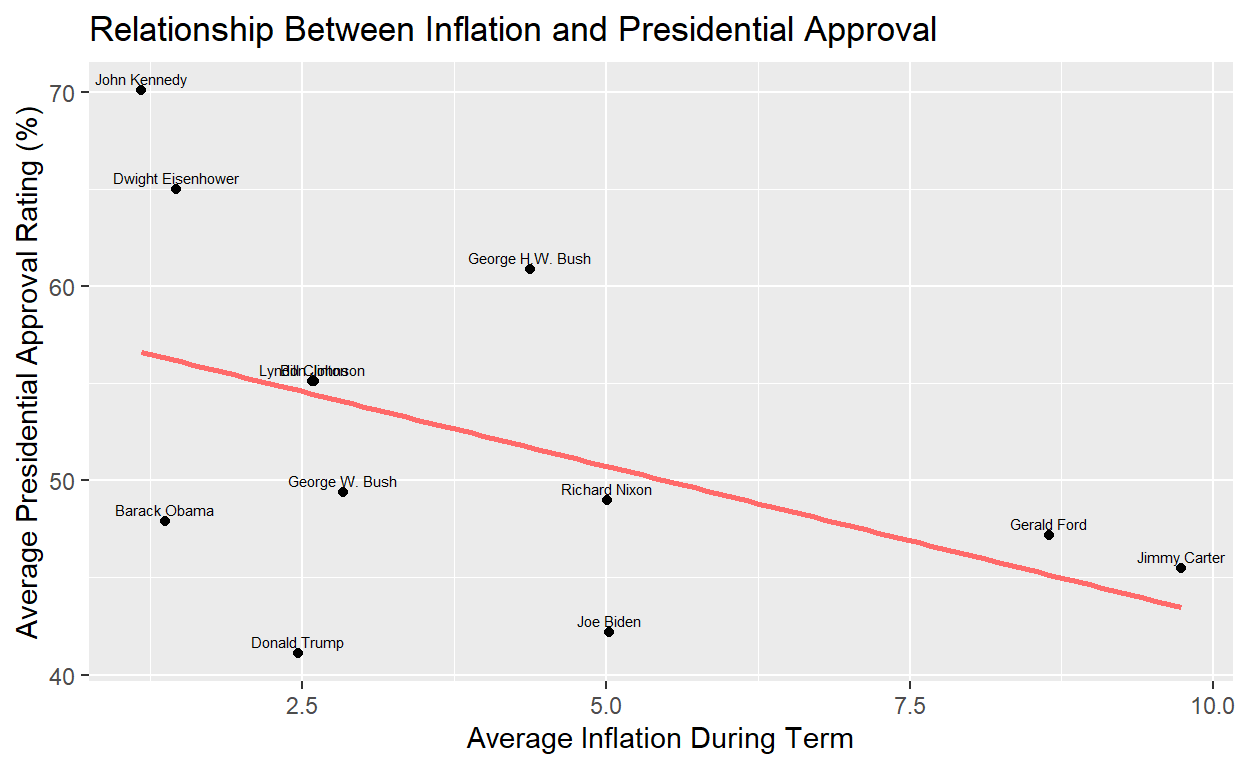
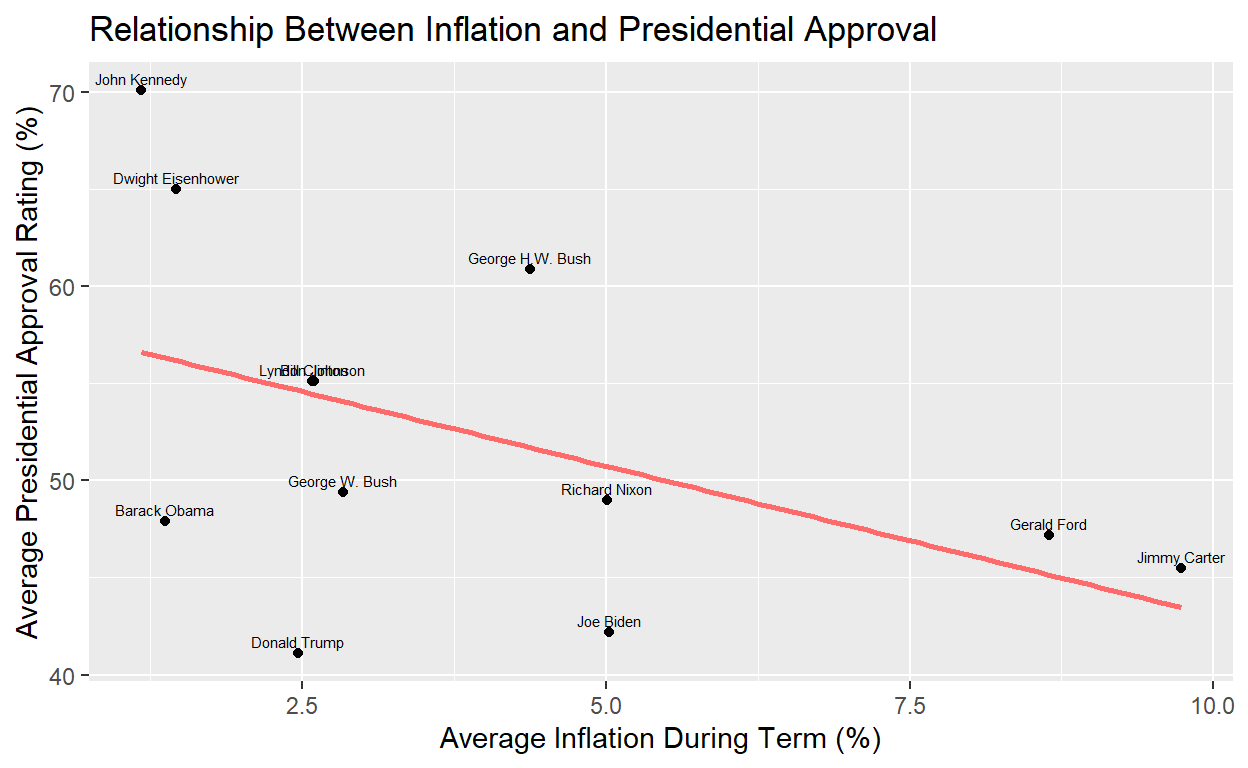
Updated

Changed region(s): [[0.3438, 0.9375, 0.7188, 1.0]]

diff --git a/index.html b/index.html
@@ -1648,7 +1648,7 @@ My hypothesis that higher inflation is associated with lower presidential approv
 <span>  <span class='fu'><a href='https://ggplot2.tidyverse.org/reference/geom_point.html'>geom_point</a></span><span class='op'>(</span><span class='op'>)</span> <span class='op'>+</span></span>
 <span>  <span class='fu'><a href='https://ggplot2.tidyverse.org/reference/geom_smooth.html'>geom_smooth</a></span><span class='op'>(</span>method <span class='op'>=</span> <span class='st'>"lm"</span>, se <span class='op'>=</span> <span class='cn'>FALSE</span>, color <span class='op'>=</span> <span class='st'>"indianred1"</span><span class='op'>)</span> <span class='op'>+</span></span>
 <span>  <span class='fu'><a href='https://ggplot2.tidyverse.org/reference/geom_text.html'>geom_text</a></span><span class='op'>(</span><span class='fu'><a href='https://ggplot2.tidyverse.org/reference/aes.html'>aes</a></span><span class='op'>(</span>label <span class='op'>=</span> <span class='va'>president</span><span class='op'>)</span>, size <span class='op'>=</span> <span class='fl'>2</span>, vjust <span class='op'>=</span> <span class='op'>-</span><span class='fl'>0.5</span><span class='op'>)</span> <span class='op'>+</span></span>
-<span>  <span class='fu'><a href='https://ggplot2.tidyverse.org/reference/labs.html'>labs</a></span><span class='op'>(</span>x <span class='op'>=</span> <span class='st'>"Average Inflation During Term"</span>,</span>
+<span>  <span class='fu'><a href='https://ggplot2.tidyverse.org/reference/labs.html'>labs</a></span><span class='op'>(</span>x <span class='op'>=</span> <span class='st'>"Average Inflation During Term (%)"</span>,</span>
 <span>       y <span class='op'>=</span> <span class='st'>"Average Presidential Approval Rating (%)"</span>,</span>
 <span>       title <span class='op'>=</span> <span class='st'>"Relationship Between Inflation and Presidential Approval"</span><span class='op'>)</span></span>
 <span></span>
